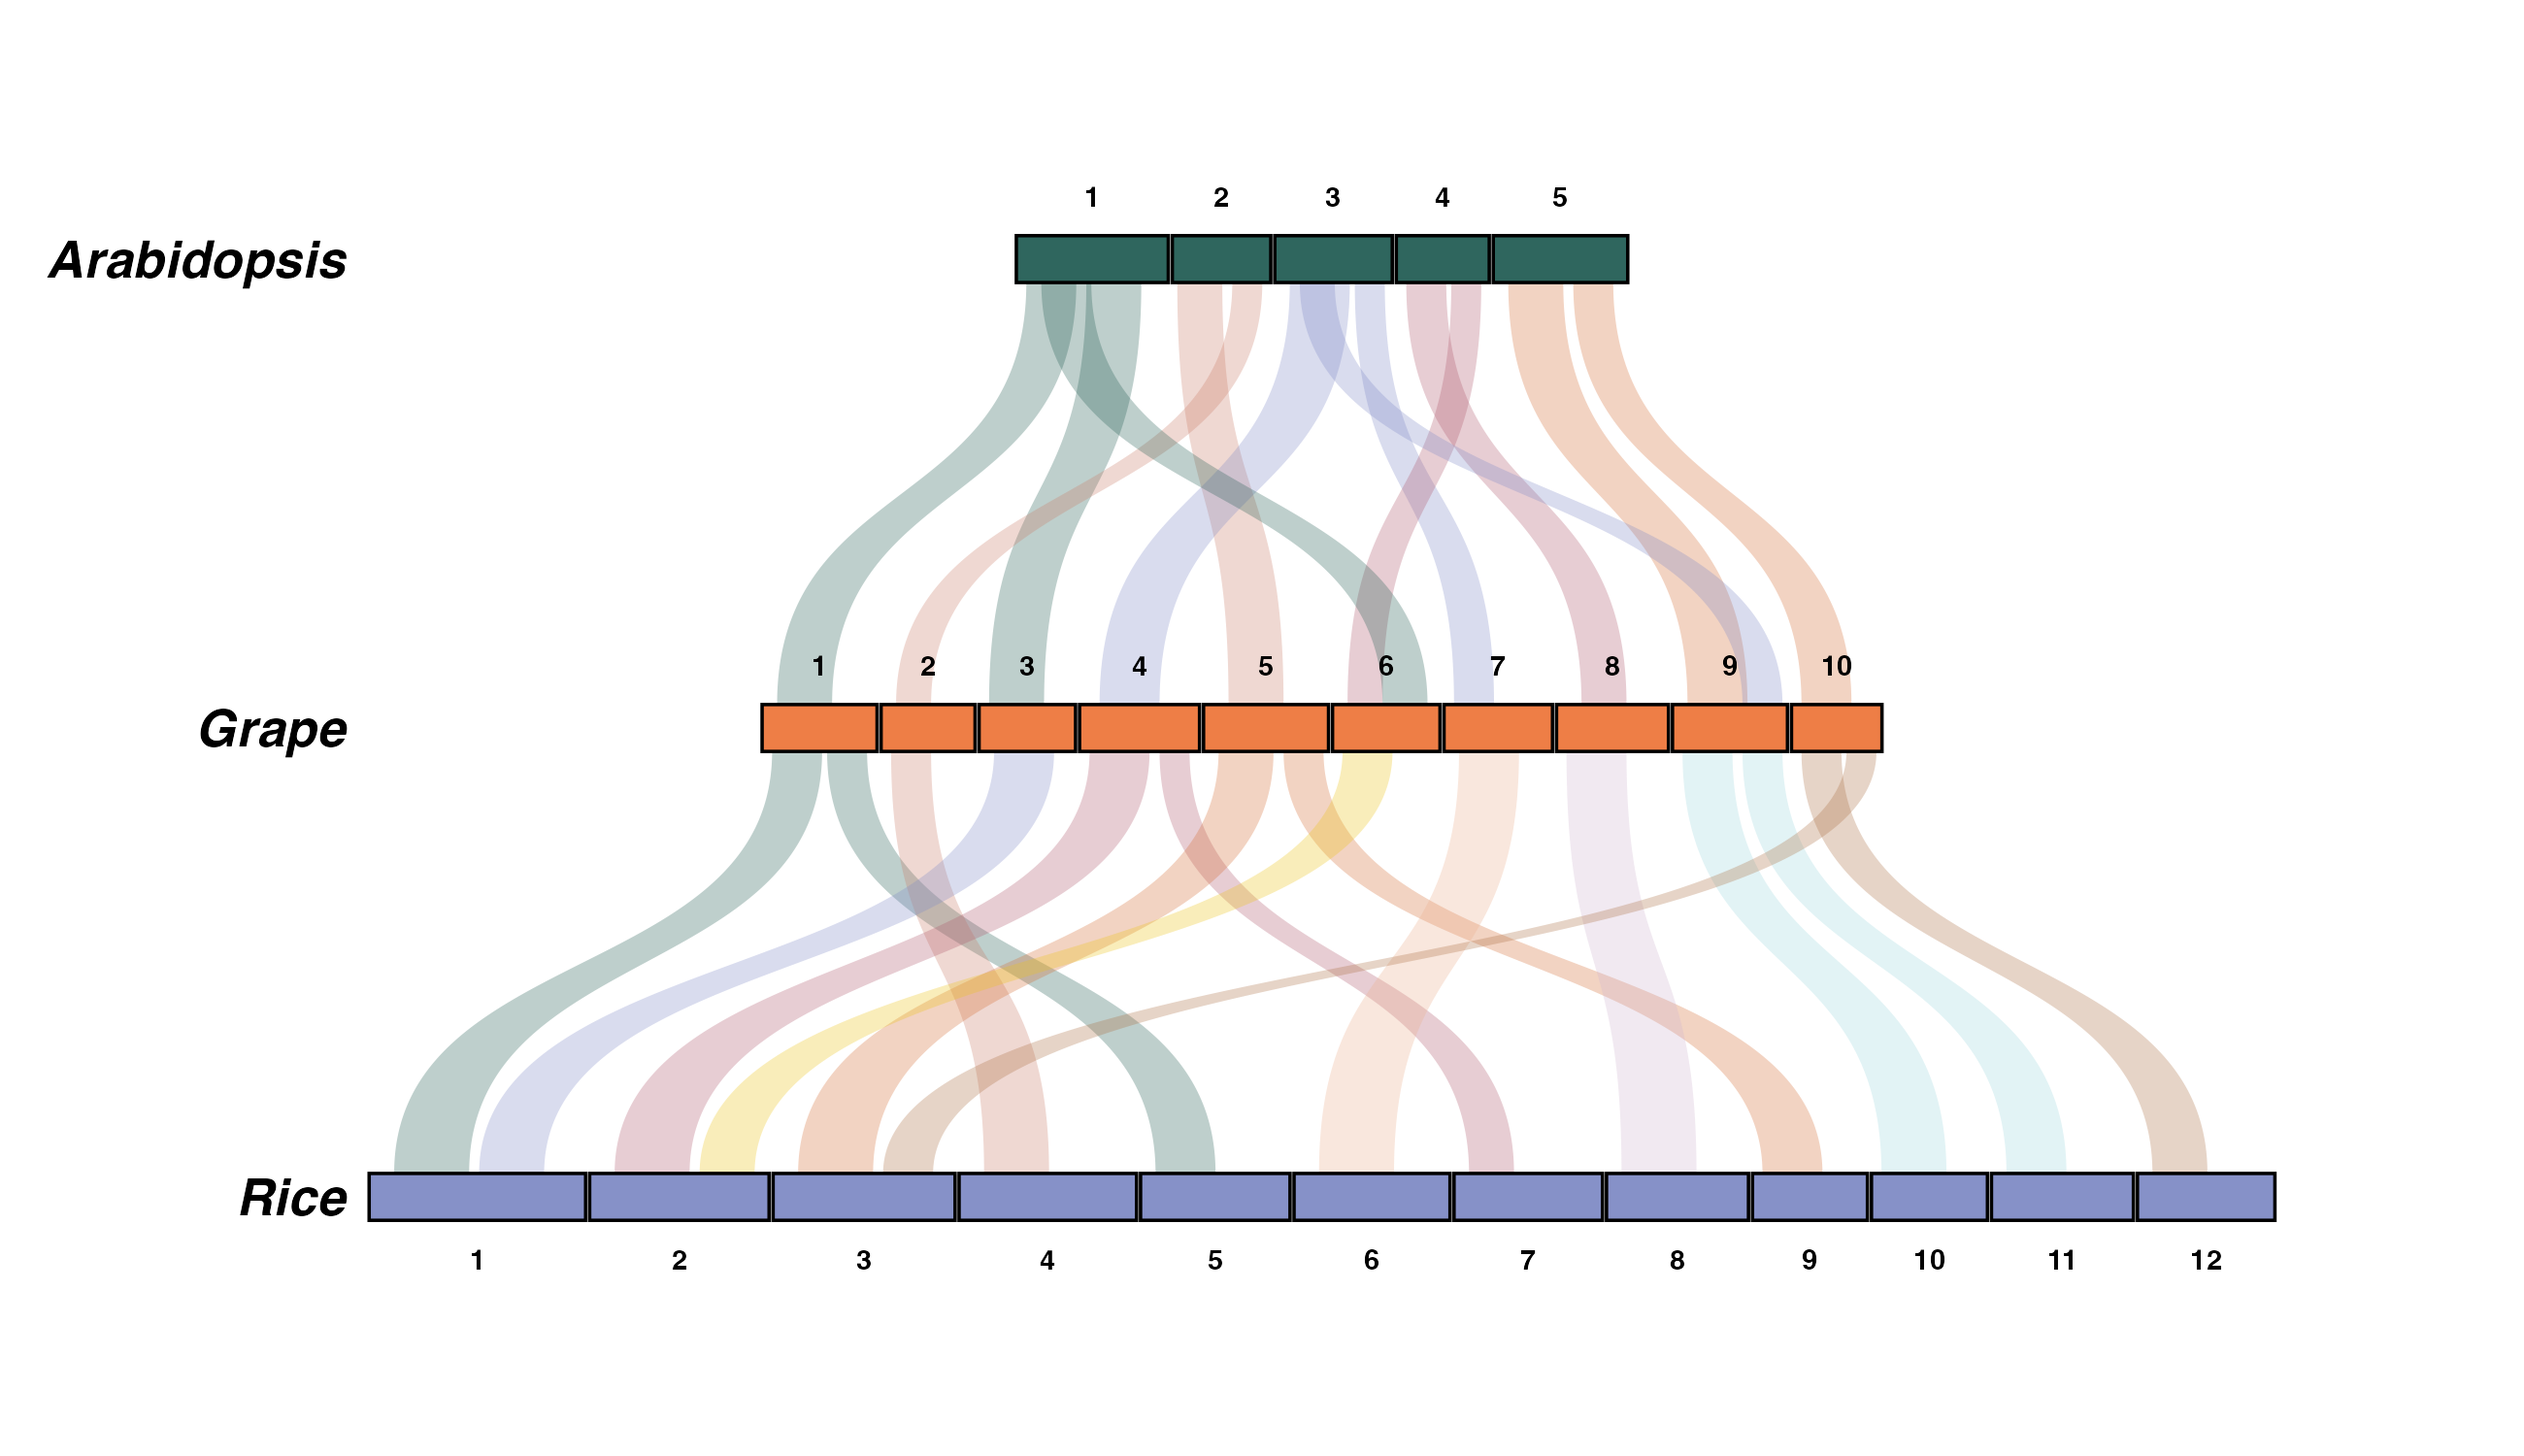
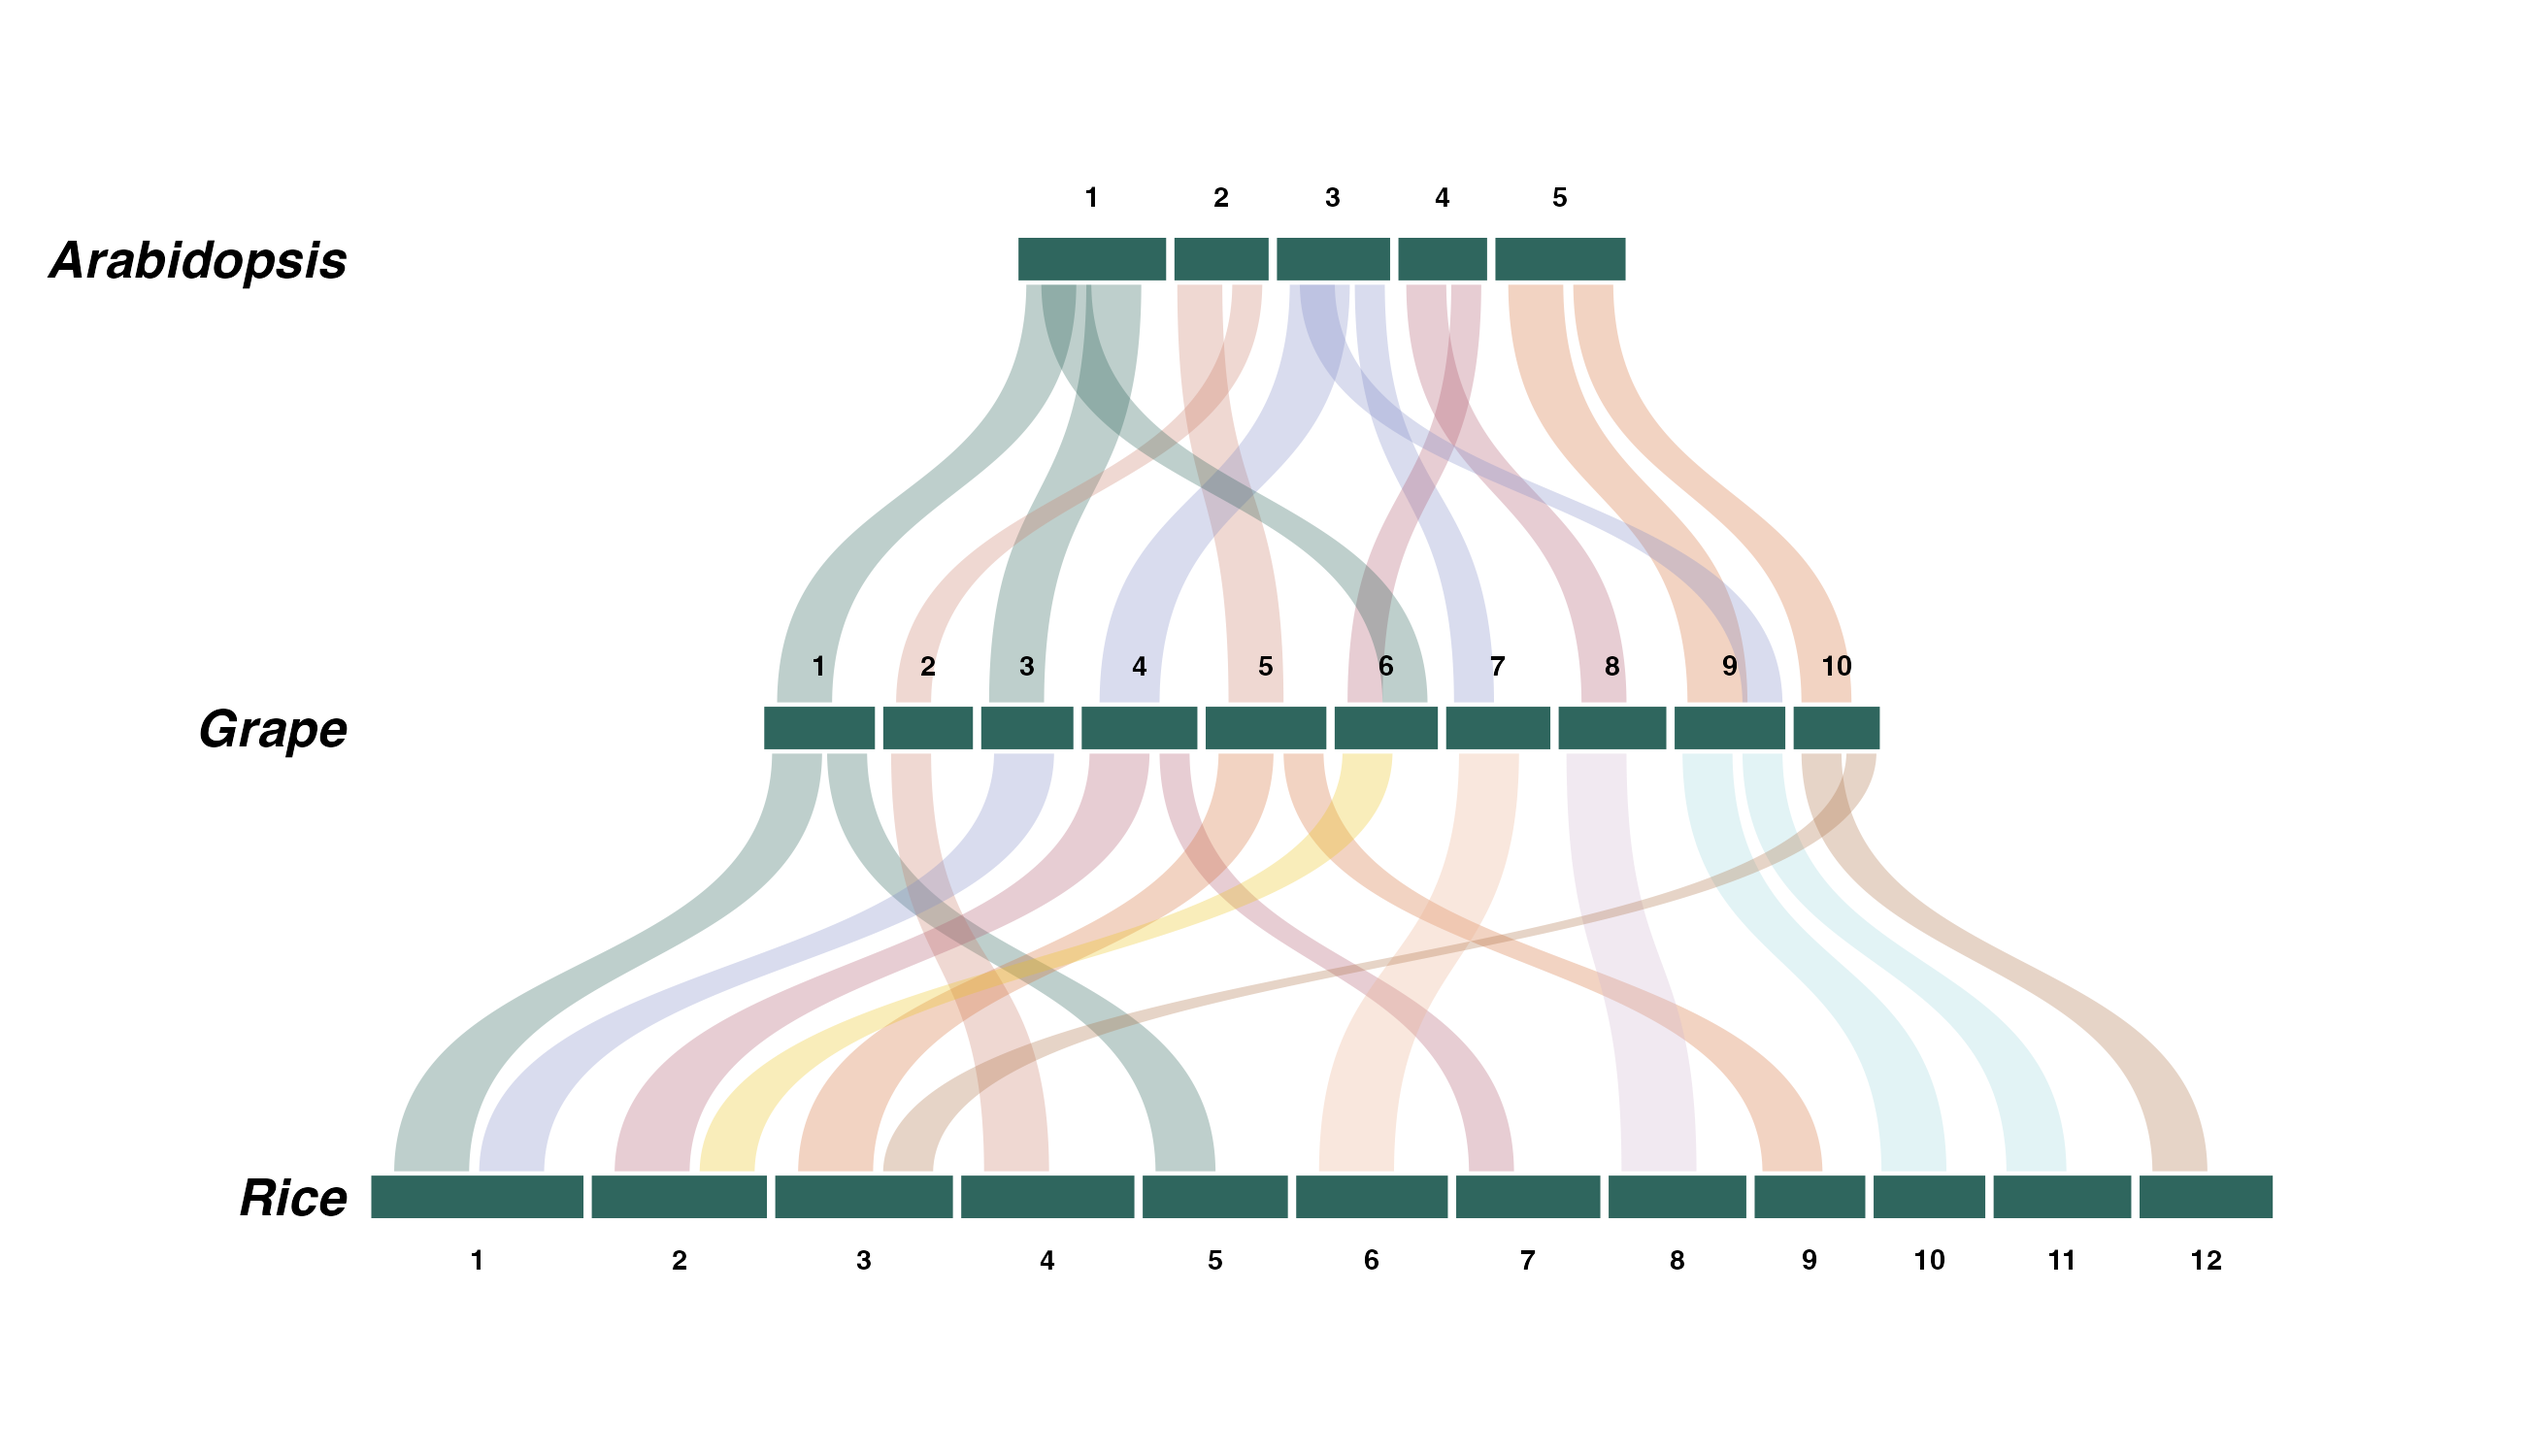
New default look: dark chromosomes, white seams, alger ribbons
With nothing specified, plot_synteny() now draws quiet #333333
chromosomes (chr_fill = 'uniform', new chr_color = 'white') and colors
ribbons from the alger palette. alger replaces the auto-generated HCL
hues as the fallback palette everywhere.

Claude-Session: https://claude.ai/code/session_01QjSbRFYQbhdm6LxUxbHsnz

Changed region(s): [[0.1246, 0.7973, 0.9035, 0.8587], [0.2804, 0.46, 0.7477, 0.5213], [0.405, 0.1533, 0.6542, 0.2147]]

diff --git a/README.md b/README.md
@@ -103,7 +103,8 @@ and `blocks` data frames (see the input formats below).
 | `syn_data` | — | List with `chromosomes` and `blocks` data frames |
 | `species_order` | — | Display order, top to bottom |
 | `palette` | `NULL` | One palette for the whole plot: an ltc name (`"casa_natal"`), `"Okabe-Ito"`, or a colour vector |
-| `chr_fill` | `"per_species"` | Chromosome colouring: `"per_species"`, `"uniform"`, `"per_chr"`, or `"custom"` |
+| `chr_fill` | `"uniform"` | Chromosome colouring: `"uniform"` (dark `#333333` default), `"per_species"`, `"per_chr"`, or `"custom"` |
+| `chr_color` | `"white"` | Chromosome outline — white seams by default; `"black"` for the classic outlined look |
 | `chr_palette` | `NULL` | Overrides `palette` for chromosomes: a palette name, colour vector, or *named* key-to-colour vector |
 | `ribbon_fill` | `"source_chr"` | Ribbon colouring: `"source_chr"`, `"target_chr"`, `"species_pair"`, `"uniform"`, or `"custom"` |
 | `ribbon_palette` | `NULL` | Overrides `palette` for ribbons; same forms as `chr_palette` |
@@ -113,8 +114,10 @@ and `blocks` data frames (see the input formats below).
 | `chr_radius` | `0` | Corner radius in mm — `1.5` gives karyotype-style capsules (needs ggforce) |
 | `interactive` | `FALSE` | Build ggiraph-interactive layers — render with `syn_girafe()` |
 
-With no colours at all you get soft per-species pastels and auto-generated
-ribbon hues:
+With nothing specified you get the house default: quiet dark chromosomes
+(`"#333333"` with white seams) and ribbons coloured from the `alger`
+palette — the ribbons carry the signal, the chromosomes stay out of the
+way:
 
 ``` r
 plot_synteny(syn, species_order = c("Arabidopsis", "Grape", "Rice"))

diff --git a/NEWS.md b/NEWS.md
@@ -1,5 +1,11 @@
 # ggsynteny 0.3.0
 
+* New default look for `plot_synteny()`: with nothing specified,
+  chromosomes are quiet dark boxes ("#333333", `chr_fill = "uniform"`) with
+  white seams (new `chr_color` argument), and ribbons take their colors
+  from the `alger` palette. The old auto-generated HCL hues are gone;
+  `alger` is now the fallback palette wherever no palette is given.
+
 * New `chr_radius` (in `plot_synteny()`) and `gene_radius` (in
   `plot_microsynteny()`): corner rounding in millimetres via ggforce —
   `chr_radius = 1.5` turns chromosomes into karyotype-style capsules.
